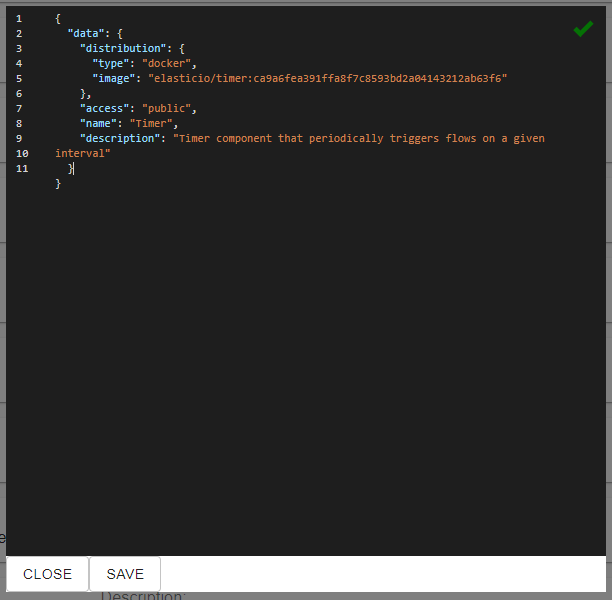
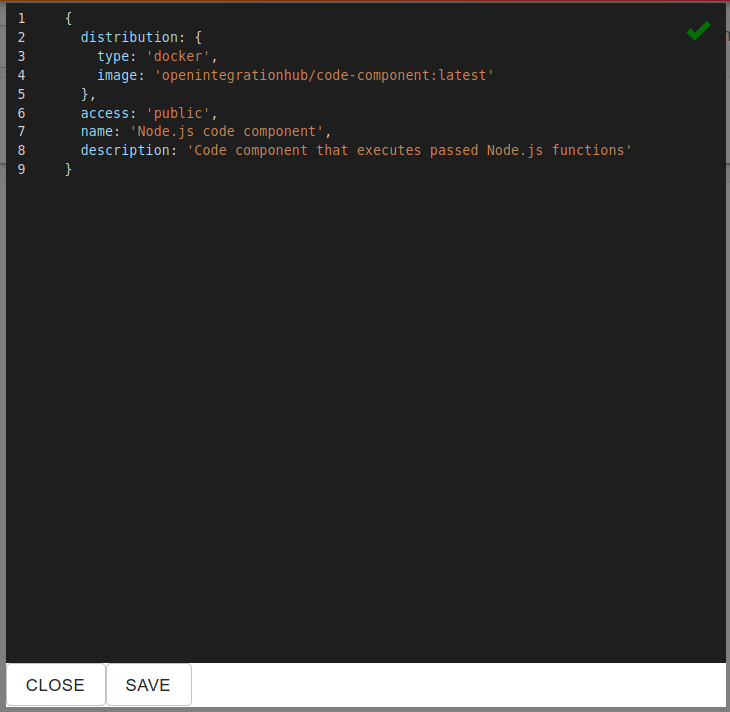
Adjusted local installation guide to new code component

Changed region(s): [[0.0, 0.0, 1.0, 1.0]]

diff --git a/docs/Getting Started/LocalInstallationGuide.md b/docs/Getting Started/LocalInstallationGuide.md
@@ -305,32 +305,16 @@ All actions are also performable via postman or similar tools.
 
 First, we have to create two components in order to have a source and target component.
 
-Below you will find code snippets for two exemplary components. For the beginning we recommend to use those but feel free to use your own.
+Below you will find a code snippets for an exemplary component. For the beginning we recommend to use this one, but feel free to use your own.
 
-**Example 1:**
-
-```json
-{
-   "data":{
-      "distribution":{
-         "type":"docker",
-         "image":"elasticio/timer:ca9a6fea391ffa8f7c8593bd2a04143212ab63f6"
-      },
-      "access":"public",
-      "name":"Timer",
-      "description":"Timer component that periodically triggers flows on a given interval"
-   }
-}
-```
-
-**Example 2:**
+**Example:**
 
 ```json
 {
     "data": {
         "distribution": {
             "type": "docker",
-            "image": "elasticio/code-component:7bc2535df2f8a35c3653455e5becc701b010d681"
+            "image": "openintegrationhub/code-component:latest"
         },
         "access": "public",
         "name": "Node.js code",
@@ -339,9 +323,9 @@ Below you will find code snippets for two exemplary components. For the beginnin
 }
 ```
 
-The timer component is used to trigger flows on a provided interval, while the code component executes the code that was provided by the flow creator.
+The code component is a powerful tool that can run any node.js code provided through the flow definition. It is a quick and easy way to generate, manipulate, and output data, especially for testing and debugging purposes.
 
-In order to add those components, visit the web ui (`web-ui.localoih.com`) and navigate to the `Components` section.
+In order to add this component, visit the web ui (`web-ui.localoih.com`) and navigate to the `Components` section.
 
 <p align="left">
   <img src="https://raw.githubusercontent.com/openintegrationhub/openintegrationhub.github.io/master/assets/images/menu.png" alt="Sublime's custom image" width="150"/>
@@ -359,30 +343,32 @@ Now click on the `ADD+` button. A popup window will appear where you can add the
 
 **GREAT!** You created your first component.
 
-Repeat this step for the second component.
 
-**!!** In order to create the flow in the next step you have to copy the `ids` of the components you just created. **!!**
+**!!** In order to create the flow in the next step you have to copy the `id` of the component you just created. **!!**
 
 ## Creating Flows
 
 Now that you successfully created two components it is time to create your first flow.
 
-Below you will find code snippets for an example flow. This excample flow periodically triggers the flow and sends request to webhook.site. For the beginning we recommend to use this flow but feel free to create your own.
+Below you will find code snippets for an example flow. The first step spawns a simple object and hands it over to the second (the code component automatically hands over whichever object is returned by the passed function). The second step then POSTs that object to an external URI. For the beginning we recommend to use this flow but feel free to create your own.
 
-Please replace the `ADD COMPONENT ID HERE` with the `ids` you copied in the previous step. Furthermore please go to [](http://webhook.site/) and copy the link to you clipboard.
+Please replace the `ADD COMPONENT ID HERE` with the `id` you copied in the previous step. Furthermore please go to [](http://webhook.site/) and copy the link to you clipboard.
 Afterwards please replace the `ADD WEBHOOK URL HERE` with the link in your clipboard.
 
 ```json
 {
-   "name":"Timer To Code Component Example",
-   "description:": "This flow periodically triggers the flow and sends request to webhook.site",
+   "name":"Code Component Example",
+   "description:": "This flow periodically send a request to webhook.site",
    "graph":{
       "nodes":[
-         {
-            "id":"step_1",
-            "componentId":"ADD COMPONENT ID HERE",
-            "function":"timer"
-         },
+        {
+           "id":"step_1",
+           "componentId":"ADD COMPONENT ID HERE",
+           "function":"execute",
+           "fields":{
+              "code":"function* run() {console.log('Spawning object!');return { Hello: 'World' };}"
+           }
+        },
          {
             "id":"step_2",
             "componentId":"ADD COMPONENT ID HERE",
@@ -399,7 +385,7 @@ Afterwards please replace the `ADD WEBHOOK URL HERE` with the link in your clipb
          }
       ]
    },
-   "cron":"*/2 * * * *"
+   "cron":"* * * * *"
 }
 ```
 
@@ -423,7 +409,7 @@ Now click on the `ADD+` button. A popup window will appear where you can add the
 
 ## Starting Flows
 
-Now that you have created two components and a flow, it is time to start this flow.
+Now that you have created a components and a flow, it is time to start this flow.
 
 Stay in the flows section and look for the flow you just created. On the right side you will the a "play" symbol.
 
